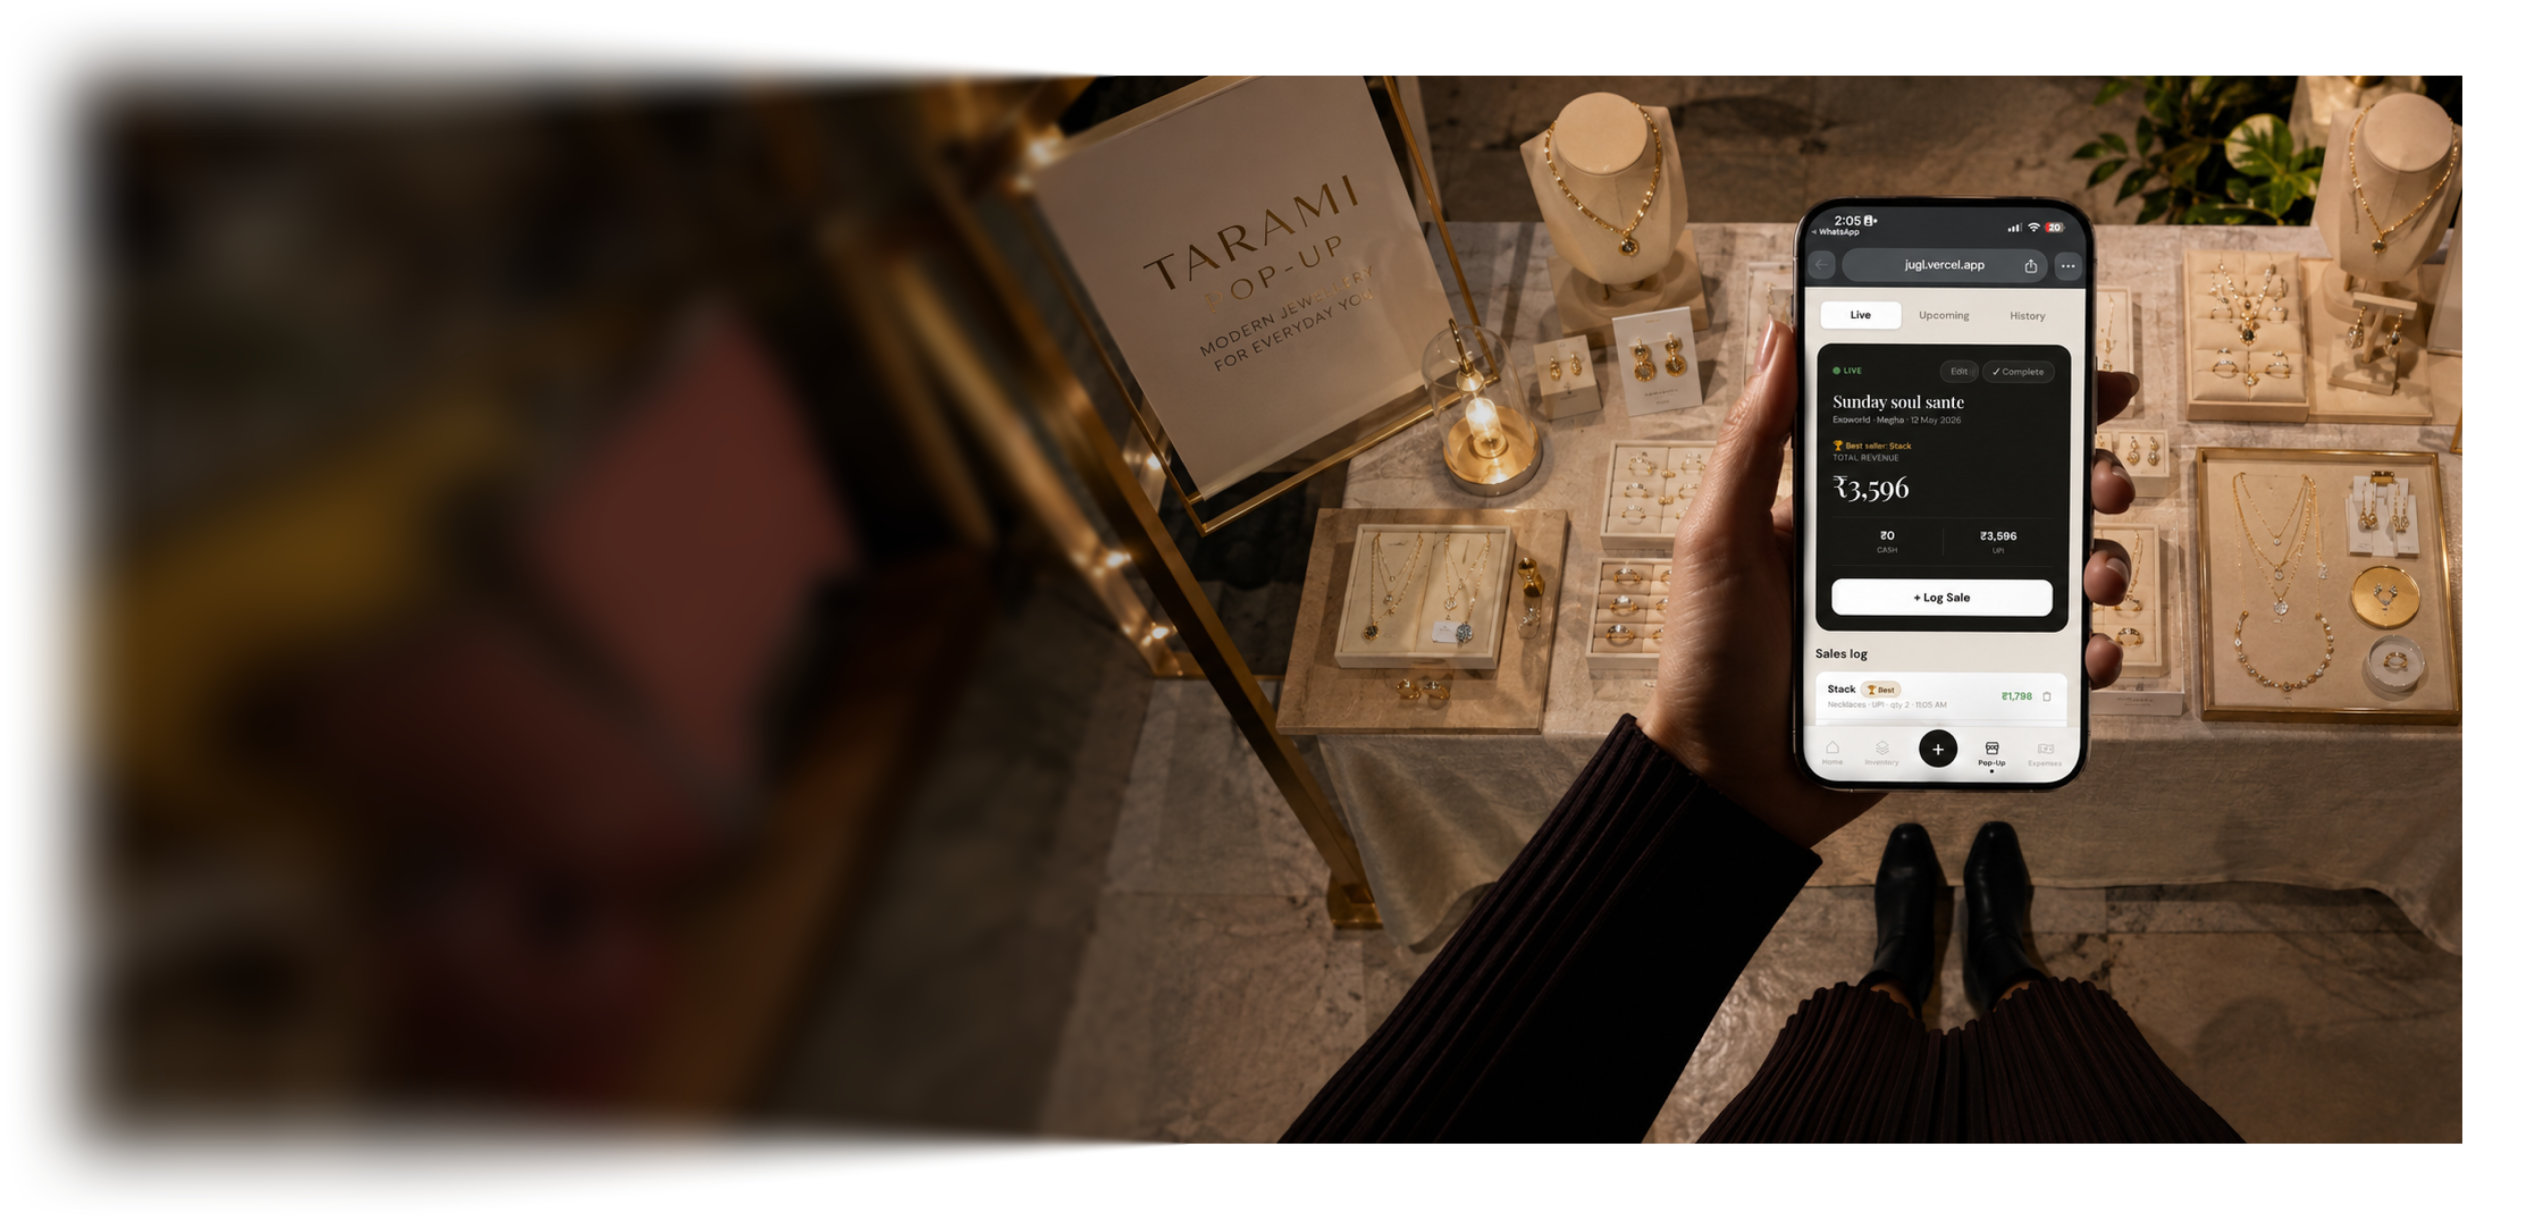
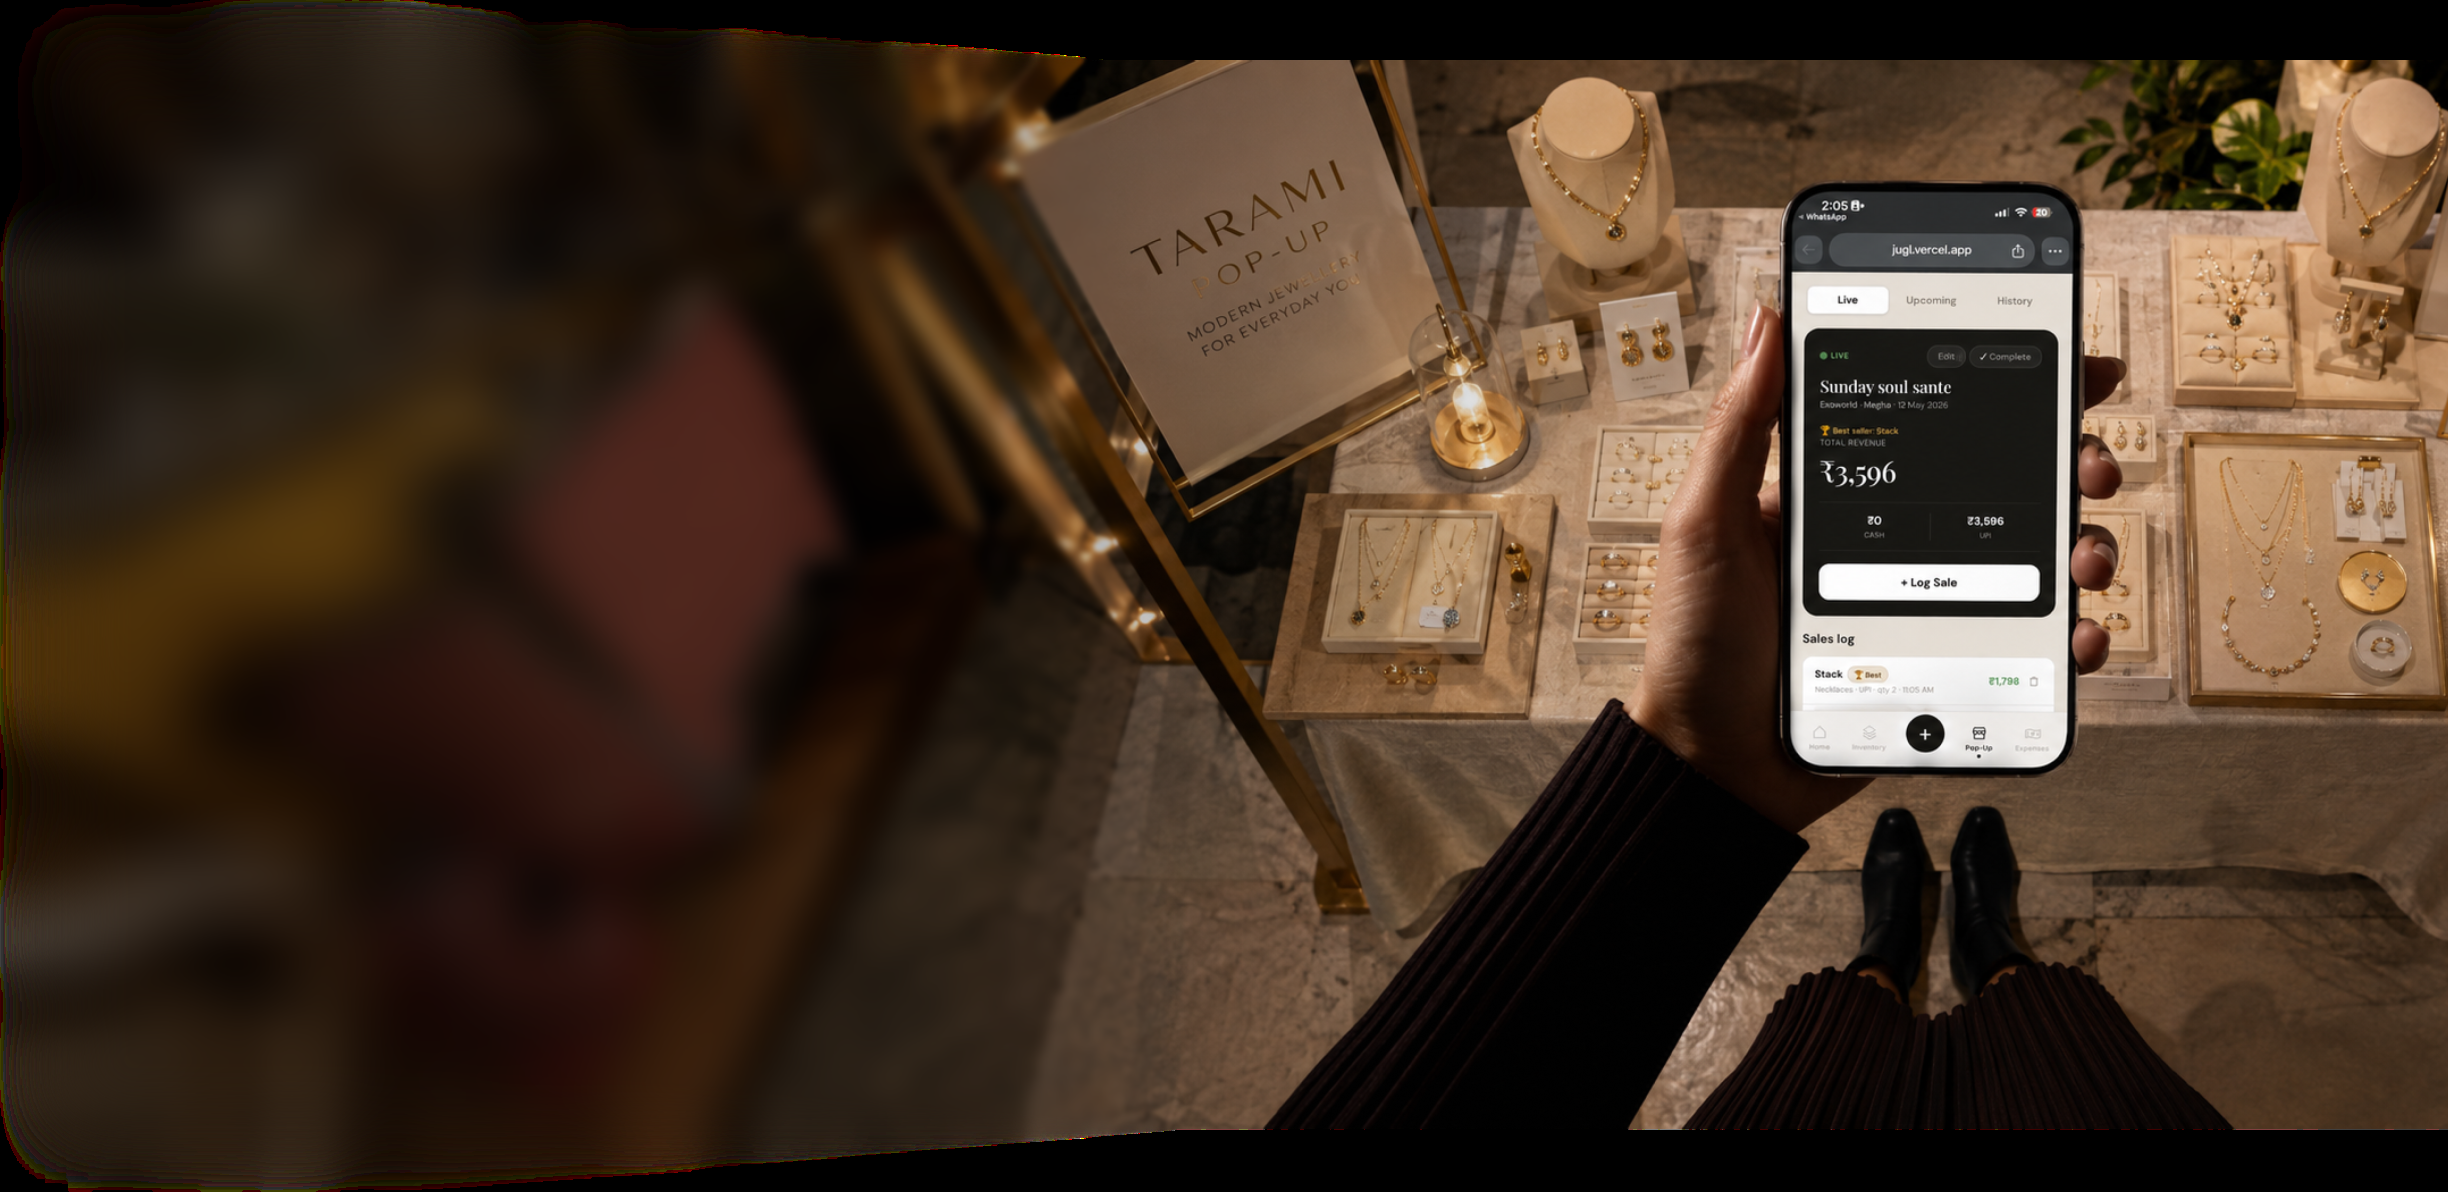
Remove borders from AI card thumbnails
The dark frame around the cards came from two sources: JUGL shipped with a
baked-in black matte (thick on the right), and imagio/cityscope were set to
`contain`, which letterboxed the card colour.

- Trim JUGL.png's black matte so nothing frames the photo
- Use `background-size: cover` for all three AI cards (not fill/contain), so
  each thumbnail fills the card edge-to-edge with no border or distortion

diff --git a/assets/css/home.css b/assets/css/home.css
@@ -257,18 +257,12 @@ a.hero-corner:hover { opacity: 0.65; }
 /* Each card now carries a product thumbnail behind that copy (see --card-img
    in index.html). A left-weighted scrim restores the legibility the old solid
    --card-bg used to give, without hiding the image on the right. */
-/* Fill the card edge-to-edge with the thumbnail (no cover-crop). The
-   thumbnails are authored close to the card's 2.23:1, so the stretch is
-   slight; swap to `contain` here if a wider source ever needs letterboxing
-   over distortion. */
-.exp-card--ai { background-size: 100% 100%; }
-/* imagio + cityscope sources are much wider (~2.57:1) than the 2.23:1 card,
-   so a straight fill squashes them ~15%. Show them whole instead — the small
-   letterbox falls on the card colour and reads as intentional framing. */
-.exp-card--ai[data-url="work-imagio.html"],
-.exp-card--ai[data-url="work-cityscope.html"] {
-  background-size: contain; background-repeat: no-repeat;
-}
+/* The thumbnail fills the card edge-to-edge (background-size: cover, from
+   .exp-card). Cover — not fill or contain — is deliberate: the sources vary
+   in ratio (2.05–2.57:1) and cover crops the overflow rather than stretching
+   them or letterboxing a coloured bar, so no border or distortion shows.
+   (JUGL's baked black matte was trimmed from the source so nothing frames it.) */
+.exp-card--ai { background-position: center; }
 .exp-card--ai::before {
   content: ''; position: absolute; inset: 0; z-index: 0; pointer-events: none;
   background: linear-gradient(100deg, rgba(8,10,12,0.9) 0%, rgba(8,10,12,0.72) 32%, rgba(8,10,12,0.32) 58%, rgba(8,10,12,0.06) 82%);
